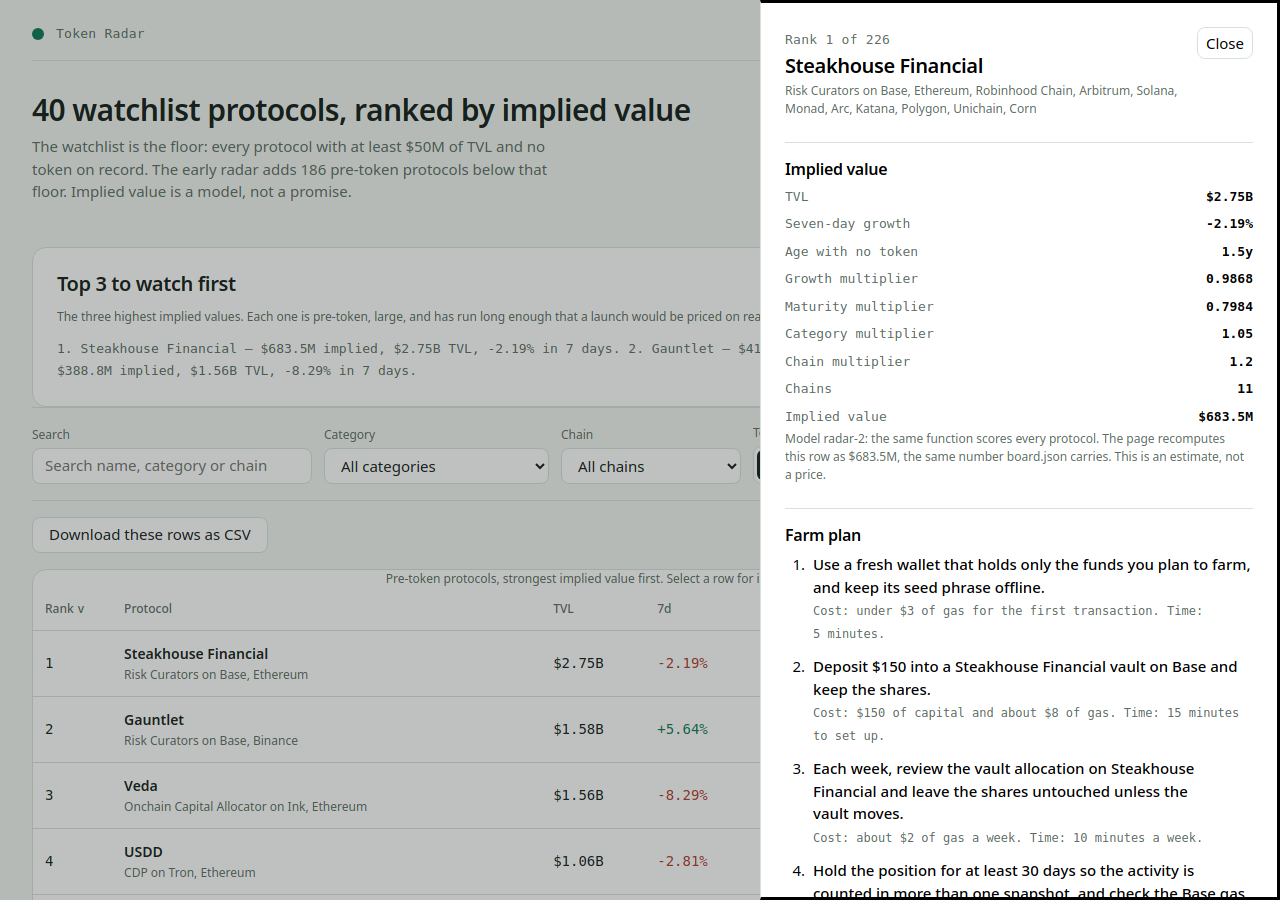
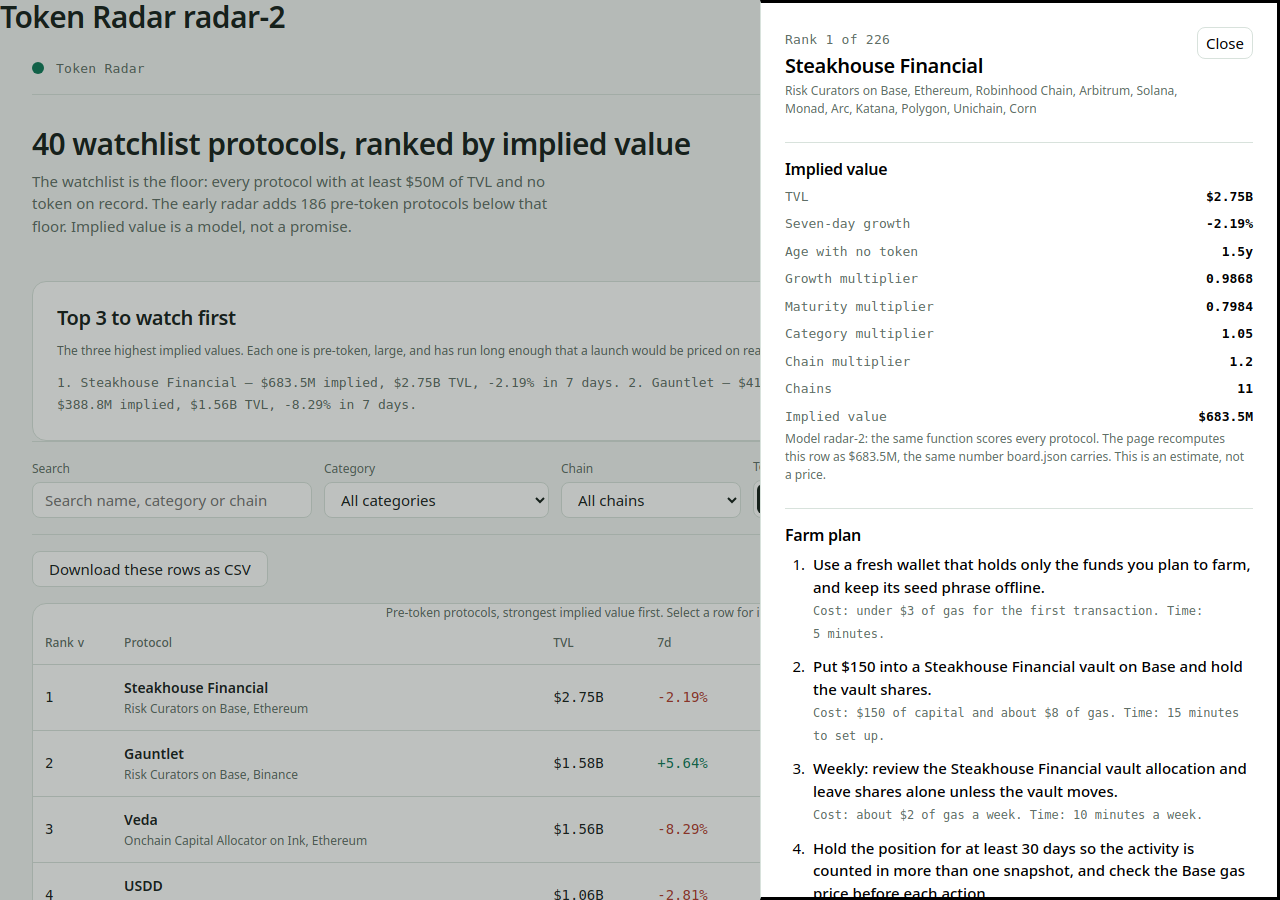
Radar-2 v3: risk notes in detail view, new farm wording, radar-2 title

diff --git a/dashboard/app.js b/dashboard/app.js
@@ -93,17 +93,27 @@
   function actionFor(p, capital, chain) {
     var c = (p.category || '').toLowerCase();
     var name = p.name;
-    if (c.indexOf('lend') >= 0 || c.indexOf('cdp') >= 0 || c.indexOf('collateral') >= 0) return 'Supply $' + capital + ' of USDC to ' + name + ' on ' + chain + ' and keep the position open.';
-    if (c.indexOf('dex') >= 0 || c.indexOf('yield') >= 0 || c.indexOf('leveraged farm') >= 0) return 'Provide $' + capital + ' of liquidity to ' + name + "'s main pool on " + chain + ' and keep the position open.';
-    if (c.indexOf('bridge') >= 0) return 'Bridge $' + capital + ' of USDC to ' + chain + ' through ' + name + ' and use the bridged funds in its app.';
-    if (c.indexOf('staking') >= 0 || c.indexOf('restak') >= 0) return "Stake $" + capital + " of the chain's staking asset through " + name + ' and keep the receipt.';
-    if (c.indexOf('perpetual') >= 0 || c.indexOf('derivative') >= 0) return 'Deposit $' + capital + ' of USDC as margin on ' + name + ' and open one small hedge.';
-    if (c.indexOf('prediction') >= 0) return 'Fund $' + capital + ' and place one market position on ' + name + '.';
-    if (c.indexOf('curator') >= 0 || c.indexOf('allocator') >= 0) return 'Deposit $' + capital + ' into a ' + name + ' vault on ' + chain + ' and keep the shares.';
+    if (c.indexOf('lend') >= 0 || c.indexOf('cdp') >= 0 || c.indexOf('collateral') >= 0) return 'Lend $' + capital + ' in USDC on ' + name + ' (' + chain + ') and leave the supply earning for the full hold.';
+    if (c.indexOf('dex') >= 0 || c.indexOf('yield') >= 0 || c.indexOf('leveraged farm') >= 0) return 'Add $' + capital + ' of liquidity to the main ' + name + ' pool on ' + chain + ' and leave it in range.';
+    if (c.indexOf('bridge') >= 0) return 'Move $' + capital + ' in USDC across ' + name + ' to ' + chain + ', then put those funds to work in its app once.';
+    if (c.indexOf('staking') >= 0 || c.indexOf('restak') >= 0) return 'Stake $' + capital + ' of the native asset via ' + name + ', keep the receipt, and do not unstake early.';
+    if (c.indexOf('perpetual') >= 0 || c.indexOf('derivative') >= 0) return 'Post $' + capital + ' in USDC as margin on ' + name + ' and open a single small hedged trade.';
+    if (c.indexOf('prediction') >= 0) return 'Fund ' + name + ' with $' + capital + ' and take one small market position.';
+    if (c.indexOf('curator') >= 0 || c.indexOf('allocator') >= 0) return 'Put $' + capital + ' into a ' + name + ' vault on ' + chain + ' and hold the vault shares.';
     if (c.indexOf('stable') >= 0) return 'Mint or deposit $' + capital + ' of the stable asset through ' + name + ' on ' + chain + '.';
-    if (c.indexOf('rwa') >= 0) return "Mint $" + capital + " of the protocol's yield asset on " + chain + ' and hold it.';
-    if (c.indexOf('insurance') >= 0) return 'Buy $' + capital + ' of cover from ' + name + ' on ' + chain + ' and keep the policy.';
-    return 'Deposit $' + capital + ' of USDC into ' + name + ' on ' + chain + ' and keep the position open.';
+    if (c.indexOf('rwa') >= 0) return 'Mint $' + capital + " of the yield-bearing asset on " + name + ' (' + chain + ') and hold it.';
+    if (c.indexOf('insurance') >= 0) return 'Buy $' + capital + ' of cover from ' + name + ' on ' + chain + ' and keep the policy active.';
+    return 'Deposit $' + capital + ' in USDC into ' + name + ' on ' + chain + ' and keep the position open.';
+  }
+  function riskNoteFor(p) {
+    var c = (p.category || '').toLowerCase();
+    var growth = p.change_7d === null || p.change_7d === undefined ? 0 : p.change_7d;
+    if (c.indexOf('lend') >= 0 || c.indexOf('cdp') >= 0) return 'Watch borrow rates and liquidation levels weekly; a sharp TVL fall means unwind first.';
+    if (c.indexOf('dex') >= 0 || c.indexOf('yield') >= 0) return 'Watch pool range and impermanent loss; leave if the pool drifts out of range for two weeks.';
+    if (c.indexOf('bridge') >= 0) return 'Bridge only small amounts at a time and check the destination chain before each move.';
+    if (c.indexOf('rwa') >= 0) return 'Check the underlying asset and yield source monthly; RWA yield is only as good as its backing.';
+    if (growth < -10) return 'TVL fell more than 10% in seven days: size down and re-check before adding more.';
+    return 'Check TVL and the points page weekly; stop adding if TVL falls for two weeks in a row.';
   }
   function stepText(step) {
     var s = step.text + ' Cost: ' + step.cost + '. Time: ' + step.time + '.';
@@ -114,14 +124,14 @@
   function weeklyActionFor(p) {
     var c = (p.category || '').toLowerCase();
     var name = p.name;
-    if (c.indexOf('lend') >= 0 || c.indexOf('cdp') >= 0) return 'Each week, supply a little more, borrow a small amount against it, then repay it on ' + name + '.';
-    if (c.indexOf('dex') >= 0 || c.indexOf('yield') >= 0) return 'Each week, swap once and add a little liquidity to ' + name + "'s main pool, then check the pool's range.";
-    if (c.indexOf('bridge') >= 0) return 'Each week, bridge a small amount through ' + name + ' and use it once in the destination app.';
-    if (c.indexOf('staking') >= 0 || c.indexOf('restak') >= 0) return 'Each week, check the staking receipt on ' + name + ' and restake any rewards it shows.';
-    if (c.indexOf('perpetual') >= 0 || c.indexOf('derivative') >= 0) return 'Each week, open and close one small hedged position on ' + name + ' and record the funding paid.';
-    if (c.indexOf('rwa') >= 0) return 'Each week, check the yield accrual on ' + name + ' and keep the receipt in your log.';
-    if (c.indexOf('curator') >= 0 || c.indexOf('allocator') >= 0) return 'Each week, review the vault allocation on ' + name + ' and leave the shares untouched unless the vault moves.';
-    return 'Each week, make one qualifying action on ' + name + ', such as a deposit, a swap or a vote.';
+    if (c.indexOf('lend') >= 0 || c.indexOf('cdp') >= 0) return 'Weekly: add a little supply, borrow a small amount, then repay it on ' + name + '.';
+    if (c.indexOf('dex') >= 0 || c.indexOf('yield') >= 0) return 'Weekly: swap once, top up liquidity in ' + name + "'s main pool, and check the range.";
+    if (c.indexOf('bridge') >= 0) return 'Weekly: bridge a small amount via ' + name + ' and use it once where it lands.';
+    if (c.indexOf('staking') >= 0 || c.indexOf('restak') >= 0) return 'Weekly: check the ' + name + ' staking receipt and compound any rewards shown.';
+    if (c.indexOf('perpetual') >= 0 || c.indexOf('derivative') >= 0) return 'Weekly: open and close one small hedged trade on ' + name + ' and note the funding paid.';
+    if (c.indexOf('rwa') >= 0) return 'Weekly: check yield accrual on ' + name + ' and file the receipt in your log.';
+    if (c.indexOf('curator') >= 0 || c.indexOf('allocator') >= 0) return 'Weekly: review the ' + name + ' vault allocation and leave shares alone unless the vault moves.';
+    return 'Weekly: do one qualifying action on ' + name + ', such as a deposit, a swap or a vote.';
   }
   function farmSteps(p) {
     var chain = chainOf(p);
@@ -383,6 +393,11 @@
         var tail = at >= 0 ? s.slice(at + 1) : '';
         return el('li', null, el('b', { text: action }), el('span', { class: 'cost', text: tail }));
       }))
+    ));
+    dialog.appendChild(el('section', { class: 'detail-section' },
+      el('h3', { text: 'Risks to watch' }),
+      el('p', { class: 'sub', text: riskNoteFor(row) }),
+      el('p', { class: 'sub', text: 'This is not financial advice. Never farm with money you cannot afford to lose, and never pay anyone to claim a token for you.' })
     ));
     if (typeof dialog.showModal === 'function') {
       if (!dialog.open) dialog.showModal();

diff --git a/lib/model.ts b/lib/model.ts
@@ -324,35 +324,47 @@ function holdDaysFor(age: number | null): number {
   return 30;
 }
 
-/** The category's one action, in the words a farmer can follow. */
+/** The one qualifying position, written as a sentence a farmer can follow. */
 function actionFor(p: SnapshotProtocol, capital: number, chain: string): string {
   const c = (p.category ?? '').toLowerCase();
   const name = p.name;
-  if (c.includes('lend') || c.includes('cdp') || c.includes('collateral')) return `Supply $${capital} of USDC to ${name} on ${chain} and keep the position open.`;
-  if (c.includes('dex') || c.includes('yield') || c.includes('leveraged farm')) return `Provide $${capital} of liquidity to ${name}'s main pool on ${chain} and keep the position open.`;
-  if (c.includes('bridge')) return `Bridge $${capital} of USDC to ${chain} through ${name} and use the bridged funds in its app.`;
-  if (c.includes('staking') || c.includes('restak')) return `Stake $${capital} of the chain's staking asset through ${name} and keep the receipt.`;
-  if (c.includes('perpetual') || c.includes('derivative')) return `Deposit $${capital} of USDC as margin on ${name} and open one small hedge.`;
-  if (c.includes('prediction')) return `Fund $${capital} and place one market position on ${name}.`;
-  if (c.includes('curator') || c.includes('allocator')) return `Deposit $${capital} into a ${name} vault on ${chain} and keep the shares.`;
+  if (c.includes('lend') || c.includes('cdp') || c.includes('collateral')) return `Lend $${capital} in USDC on ${name} (${chain}) and leave the supply earning for the full hold.`;
+  if (c.includes('dex') || c.includes('yield') || c.includes('leveraged farm')) return `Add $${capital} of liquidity to the main ${name} pool on ${chain} and leave it in range.`;
+  if (c.includes('bridge')) return `Move $${capital} in USDC across ${name} to ${chain}, then put those funds to work in its app once.`;
+  if (c.includes('staking') || c.includes('restak')) return `Stake $${capital} of the native asset via ${name}, keep the receipt, and do not unstake early.`;
+  if (c.includes('perpetual') || c.includes('derivative')) return `Post $${capital} in USDC as margin on ${name} and open a single small hedged trade.`;
+  if (c.includes('prediction')) return `Fund ${name} with $${capital} and take one small market position.`;
+  if (c.includes('curator') || c.includes('allocator')) return `Put $${capital} into a ${name} vault on ${chain} and hold the vault shares.`;
   if (c.includes('stable')) return `Mint or deposit $${capital} of the stable asset through ${name} on ${chain}.`;
-  if (c.includes('rwa')) return `Mint $${capital} of the protocol's yield asset on ${chain} and hold it.`;
-  if (c.includes('insurance')) return `Buy $${capital} of cover from ${name} on ${chain} and keep the policy.`;
-  return `Deposit $${capital} of USDC into ${name} on ${chain} and keep the position open.`;
+  if (c.includes('rwa')) return `Mint $${capital} of the yield-bearing asset on ${name} (${chain}) and hold it.`;
+  if (c.includes('insurance')) return `Buy $${capital} of cover from ${name} on ${chain} and keep the policy active.`;
+  return `Deposit $${capital} in USDC into ${name} on ${chain} and keep the position open.`;
+}
+
+/** What to watch for this protocol, from its own category and growth. */
+export function riskNoteFor(p: SnapshotProtocol): string {
+  const c = (p.category ?? '').toLowerCase();
+  const growth = p.change_7d ?? 0;
+  if (c.includes('lend') || c.includes('cdp')) return 'Watch borrow rates and liquidation levels weekly; a sharp TVL fall means unwind first.';
+  if (c.includes('dex') || c.includes('yield')) return 'Watch pool range and impermanent loss; leave if the pool drifts out of range for two weeks.';
+  if (c.includes('bridge')) return 'Bridge only small amounts at a time and check the destination chain before each move.';
+  if (c.includes('rwa')) return 'Check the underlying asset and yield source monthly; RWA yield is only as good as its backing.';
+  if (growth < -10) return 'TVL fell more than 10% in seven days: size down and re-check before adding more.';
+  return 'Check TVL and the points page weekly; stop adding if TVL falls for two weeks in a row.';
 }
 
 /** The weekly qualifying action, specific to the protocol's category. */
 function weeklyActionFor(p: SnapshotProtocol): string {
   const c = (p.category ?? '').toLowerCase();
   const name = p.name;
-  if (c.includes('lend') || c.includes('cdp')) return `Each week, supply a little more, borrow a small amount against it, then repay it on ${name}.`;
-  if (c.includes('dex') || c.includes('yield')) return `Each week, swap once and add a little liquidity to ${name}'s main pool, then check the pool's range.`;
-  if (c.includes('bridge')) return `Each week, bridge a small amount through ${name} and use it once in the destination app.`;
-  if (c.includes('staking') || c.includes('restak')) return `Each week, check the staking receipt on ${name} and restake any rewards it shows.`;
-  if (c.includes('perpetual') || c.includes('derivative')) return `Each week, open and close one small hedged position on ${name} and record the funding paid.`;
-  if (c.includes('rwa')) return `Each week, check the yield accrual on ${name} and keep the receipt in your log.`;
-  if (c.includes('curator') || c.includes('allocator')) return `Each week, review the vault allocation on ${name} and leave the shares untouched unless the vault moves.`;
-  return `Each week, make one qualifying action on ${name}, such as a deposit, a swap or a vote.`;
+  if (c.includes('lend') || c.includes('cdp')) return `Weekly: add a little supply, borrow a small amount, then repay it on ${name}.`;
+  if (c.includes('dex') || c.includes('yield')) return `Weekly: swap once, top up liquidity in ${name}'s main pool, and check the range.`;
+  if (c.includes('bridge')) return `Weekly: bridge a small amount via ${name} and use it once where it lands.`;
+  if (c.includes('staking') || c.includes('restak')) return `Weekly: check the ${name} staking receipt and compound any rewards shown.`;
+  if (c.includes('perpetual') || c.includes('derivative')) return `Weekly: open and close one small hedged trade on ${name} and note the funding paid.`;
+  if (c.includes('rwa')) return `Weekly: check yield accrual on ${name} and file the receipt in your log.`;
+  if (c.includes('curator') || c.includes('allocator')) return `Weekly: review the ${name} vault allocation and leave shares alone unless the vault moves.`;
+  return `Weekly: do one qualifying action on ${name}, such as a deposit, a swap or a vote.`;
 }
 
 /**

diff --git a/dashboard/index.html b/dashboard/index.html
@@ -3,12 +3,15 @@
 <head>
 <meta charset="utf-8">
 <meta name="viewport" content="width=device-width, initial-scale=1">
-<title>Token Radar: pre-token protocols ranked by implied value</title>
+<meta name="description" content="Token Radar radar-2: 226 pre-token protocols ranked by implied value, with a farm plan and risk note for each one.">
+<title>Token Radar radar-2: pre-token protocols ranked by implied value</title>
 <link rel="stylesheet" href="app.css">
 </head>
 <body>
 <a class="skip" href="#board">Skip to the board</a>
+<header class="sr-only"><h1>Token Radar radar-2</h1></header>
 <main id="board" tabindex="-1" aria-busy="true"></main>
+<noscript><p>This radar needs JavaScript to render its board from the bundled data.</p></noscript>
 <script src="../data.js"></script>
 <script src="app.js"></script>
 </body>
